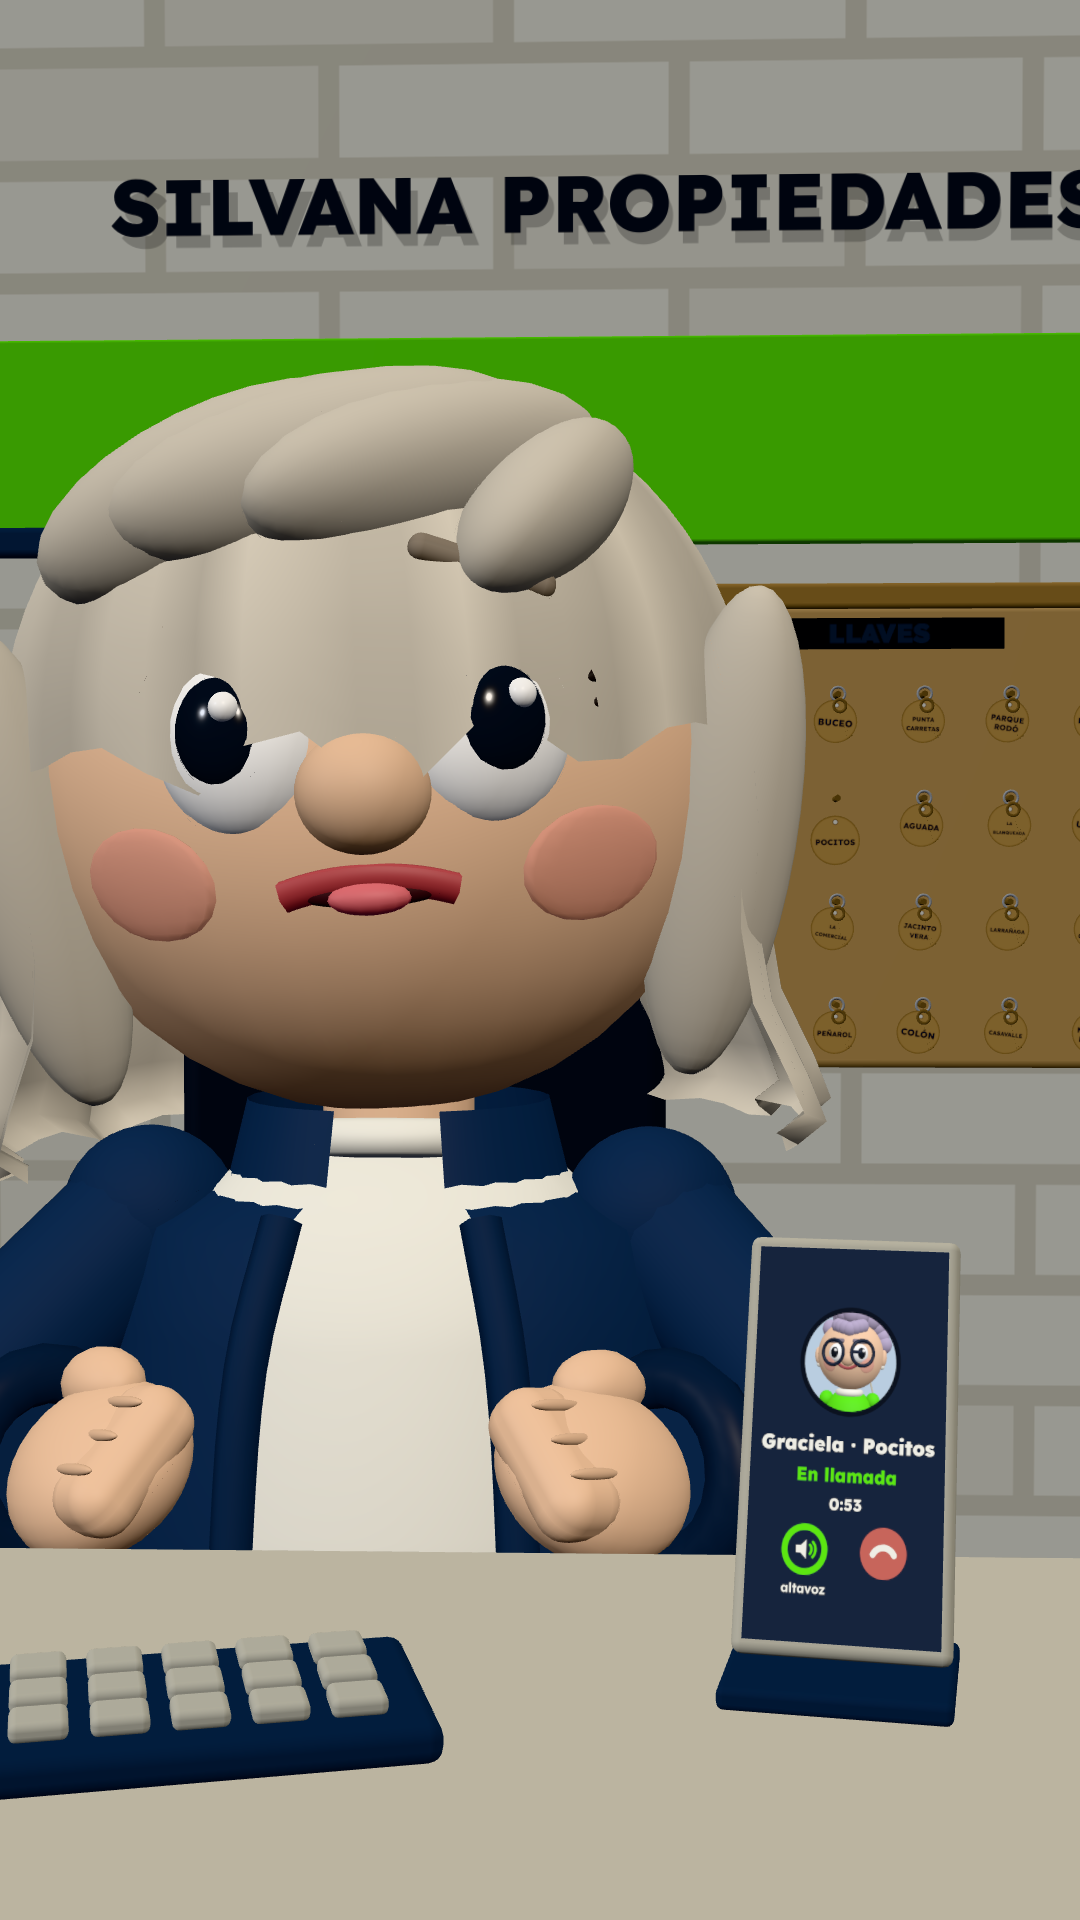
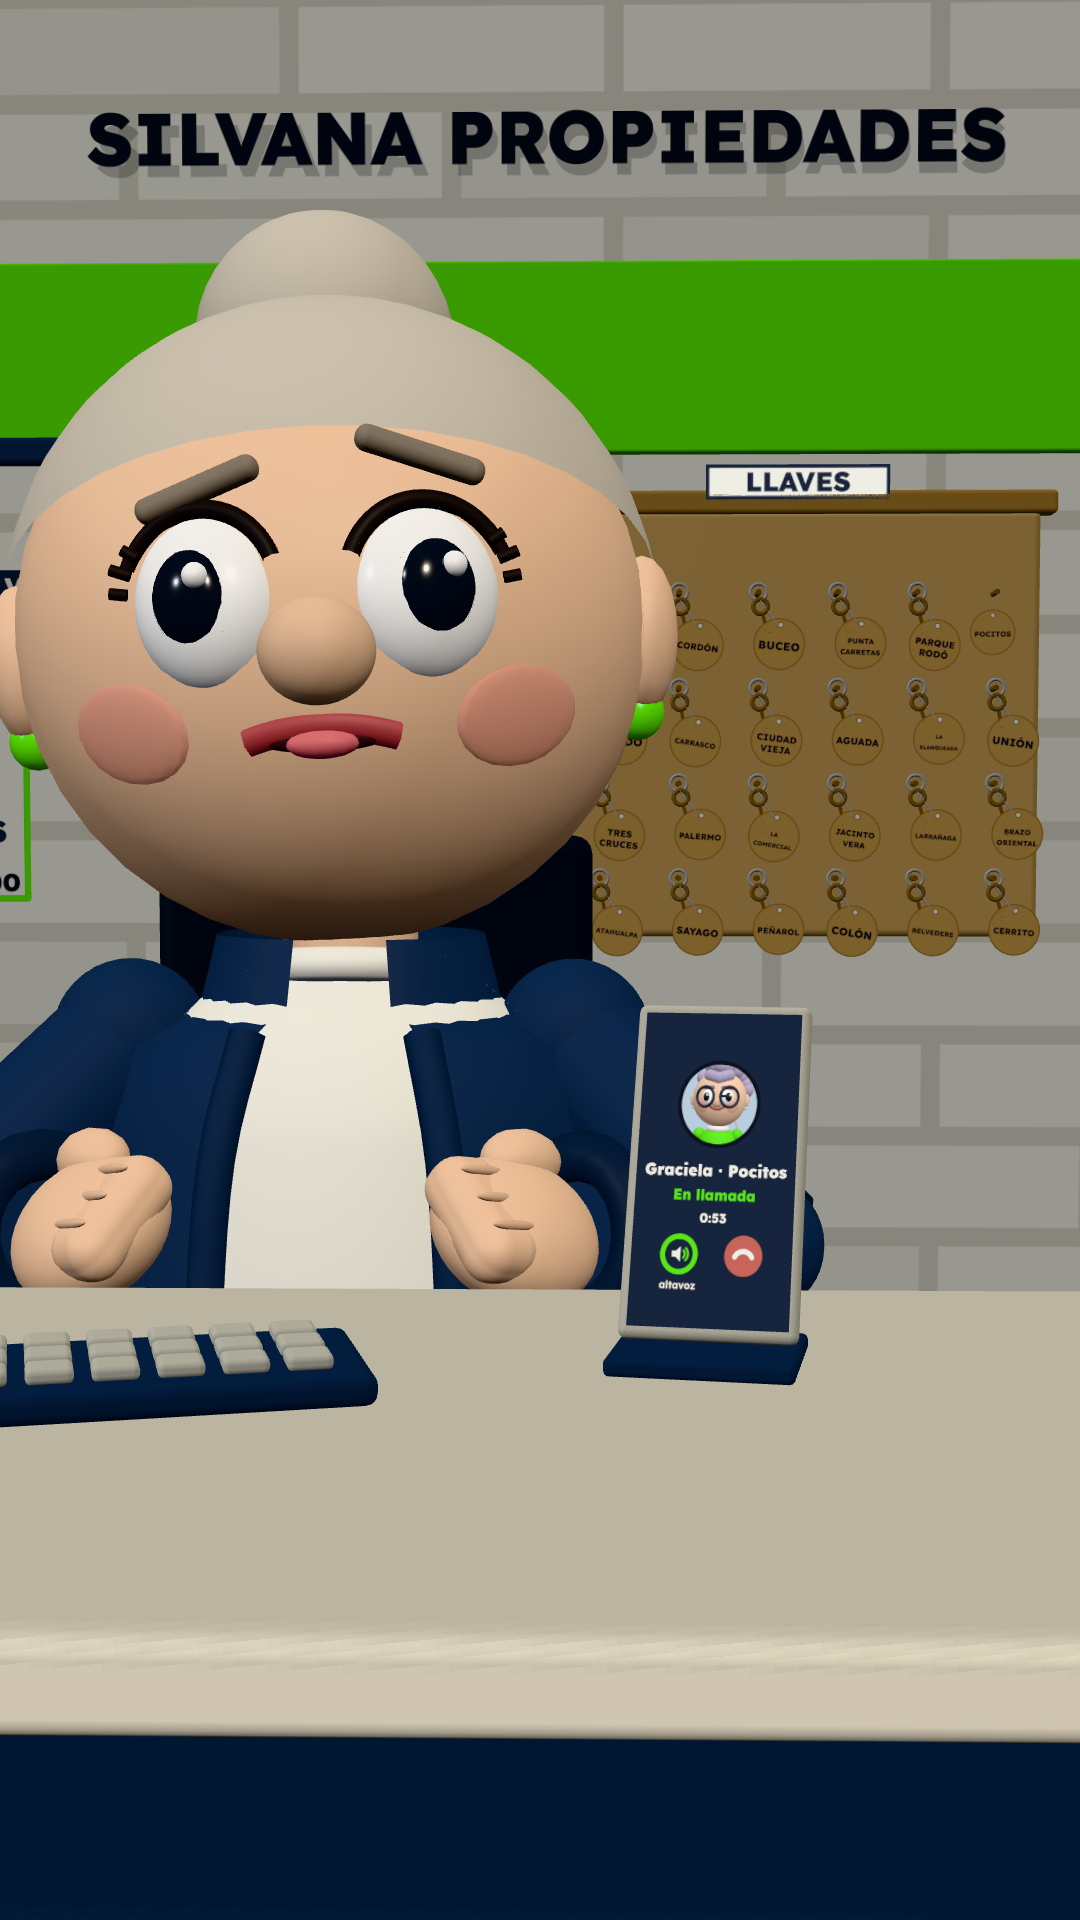
wip: inmobiliaria-visitas (ronda 1 corregida, render y portada)
Claude-Session: https://claude.ai/code/session_01Fn7kXCPYhPYC2JJr7hdyAB

diff --git a/reels/inmobiliaria-visitas/assets/tres.js b/reels/inmobiliaria-visitas/assets/tres.js
@@ -1173,7 +1173,7 @@ function renderAt(tIn) {
     celuS.updateMatrixWorld(true);
     const cs = celuS.userData.piv.localToWorld(celuS.userData.centro.clone());
     const u = eio(sg(t, T.q5, DUR));
-    ponerCam([cs.x + 0.02, cs.y, cs.z + lerp(0.64, 0.6, u), cs.x + 0.01, cs.y - 0.066, cs.z, 44], t);   // (r1) el celular ≥ 60 % del ancho, arriba de la tarjeta
+    ponerCam([cs.x + 0.02, cs.y, cs.z + lerp(0.68, 0.64, u), cs.x + 0.01, cs.y - 0.035, cs.z, 44], t);   // (r1) el celular ≥ 60 % del ancho, arriba de la tarjeta
   }
   if (t >= T.q5 - 0.6) {
     // Sofi: su escena a la textura del celular parado (desde antes del plano: el primer cuadro ya la tiene)
@@ -1186,7 +1186,7 @@ function renderAt(tIn) {
     // la portada: Silvana de frente con cara de "¿y ahora?", el celular en altavoz cerca, el tablero con el gancho vacío
     silvana.raiz.visible = true;
     silvana.poner({ ...poseSilvana(T.p6 + 0.2), ...CARA.incredula, ojos: { abiertos: 0.95, x: 0.0, y: 0.05, tension: 0.2 }, cejas: { alto: 0.35, ang: 0.45, asim: 0.5 }, boca: { sonrisa: -0.3, abierta: 0.05, ancho: 0.85 }, cabeza: { giro: 0.05, asiente: 0.0, ladea: 0.05 }, t: 1 });
-    ponerCam([0.18, 1.18, 2.2, 0.12, 1.12, 0.35, 46], t, true);
+    ponerCam([0.22, 1.1, 2.45, 0.18, 0.98, 0.35, 46], t, true);   // (r1) el celular en altavoz y el tablero en la mitad de arriba
   }
   if (window.__cam) ponerCam(window.__cam, t, true);
   if (VERM && VERM.startsWith("cam:")) ponerCam(VERM.slice(4).split(",").map(Number), t, true);

diff --git a/reels/inmobiliaria-visitas/NOTAS-constructor.md b/reels/inmobiliaria-visitas/NOTAS-constructor.md
@@ -84,3 +84,35 @@ llaves detrás (portada-src/fondo-limpio.png). chica "Viernes, 18:00.", grande "
 - La comisión gira de rojo a verde con un cuadro casi plano (la tarjeta de canto) en 31,25.
 - Silvana, Diego y Romina son nuevos: las manos son puños redondeados (como el resto del elenco), la melena de Silvana
   es el peinado "melena" de Lorena en canoso.
+
+## Ronda 1 de revisión (17-11, sobre qa-arte-r1, qa-sonido-r1, qa-guion-r1)
+**35,77 s (1073 cuadros).** Parte 1 0-15,6 · cartel 15,6-17,9 · parte 2 17,9-35,77 = 17,87 s (50 %); cierre (Sofi) 32,84-35,77 =
+2,93 s, tarjeta VISITAS desde 32,9. Render 527 s; final -14,2 LUFS, pico -4,8 dBFS; voz ≥ +8,8 LU sobre el resto en todos los
+tramos. `check --json` 0 errores. Diferencias cuadro a cuadro: sin cuadros sueltos, último cuadro quieto (renders/qa4/).
+- Silvana: peinado "rodete" con rodeteAtras 0,42 (el de Alicia de pilates-cuota): sin flequillo ni melena sobre la cara,
+  cejas y ojos limpios de frente, 3/4 y cerrados. Portada nueva (fondo limpio con el celular en altavoz y el tablero).
+- Resumen de Graciela (Q2) sin el reloj grande, textos de 42-66 px en el lienzo (≥ 40 px en cuadro).
+- Cierre 2,93 s: toma nueva de Sofi "Comentá VISITAS y te mando cómo funciona." (Achernar, atempo 1,05); el celular más grande
+  (≈ 55 % del ancho, la tarjeta abajo sin taparle la cara), la línea chica debajo de la tarjeta ("Visitas anotadas y resumen
+  automático al propietario · scalerics.com"). No entró el monitor al lado.
+- P6 1,9 s: plano general con "Apartamento de Graciela · USD 180.000" y "USD 5.400 de comisión" con guía a la ficha POCITOS;
+  P6b inserto del tablero con "Visitas anotadas: 0" y guía al gancho POCITOS vacío (POCITOS pasó a la esquina de arriba a la
+  derecha, lejos de la cabeza de Silvana). En Q3 (Q3t) el mismo inserto con la llave colgada. Llaves con la paleta a la
+  vista (la etiqueta cuelga al costado), rótulo LLAVES crema con letras navy. Sin MALVÍN ni MALVÍN NORTE en el tablero.
+- Burbujas del altavoz al lado del celular con la cola a la pantalla (P1, Q3, Q3c, P6). P8: "Ah." y en "Era" la burbuja
+  completa (al costado, cola a la boca); cámara más arriba. Llave MALVÍN colgando de la taza, legible.
+- Balcón: llave de verdad en la cerradura (cabeza de bronce que sale del cilindro); P5 desde el living por la puerta-ventana
+  (Graciela de frente, el río y la rambla detrás; calle a -3,6); sin la grúa de la fachada; "La llave" corta a la llave. Cartel
+  VENDE a la derecha de Graciela. Celulares al pecho. Insertos de celular al 72 % del alto (≈ 62 % del ancho), sin la masa de
+  dedos (la persona se oculta cuando el celular llena el cuadro), primer renglón desde el primer cuadro.
+- Pareja de Q1: se va por el pasillo, él con pelo texturado; la puerta de entrada abierta hacia el living.
+- Silvana tapa con la palma arriba del celular y mira a los corredores; en Q3 la cámara va al monitor cuando ella gira.
+- Nombre de la pared escondido en el cuadro 0 y P2. VENDIDO ✓ en el monitor (igual a la franja). Llave "con Diego desde 17:10".
+  Ficha de la vidriera de Pocitos en alquiler → Aguada. Comisión gira sin quedar vacía. Chips entran con escala (no cortados).
+  Cartel: el texto se va 0,12 s antes del iris.
+- Sonido: Diego "Cargada." en Q1 (Achird) y Q1/Q2 más cortos (sin tramos sin voz > ~2,3 s); Romina 0,3 s después y paneo
+  izq./der.; sin crujido de silla ni puerta; "Ya sé." toma b (el STT lo oye); pasos de la pareja con la pareja caminando.
+- descripcion.txt: la llave cuelga de la puerta de la propietaria. guion.txt: "Cargada." y el cierre corto.
+- No hecho / flojo: el STT del stem de voz sigue oyendo "un mongola" en "Un montón." / "Ninguna." (se superponen 0,4 s;
+  con el paneo se separan en estéreo); la coleta de Romina se sigue leyendo como rodete; la franja de escritorio abajo en P1;
+  el tablero en P1 sigue chico (se lee en los insertos P6b y Q3t).
